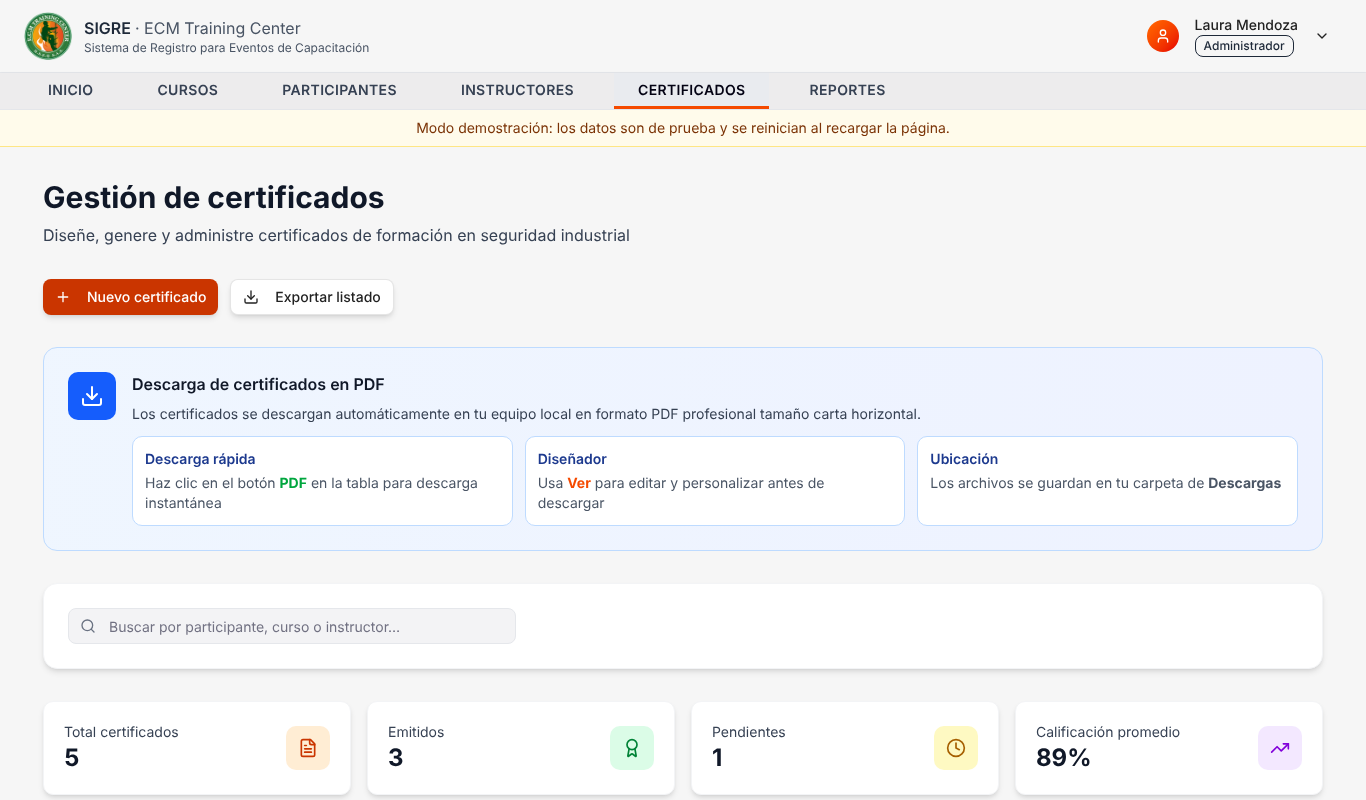
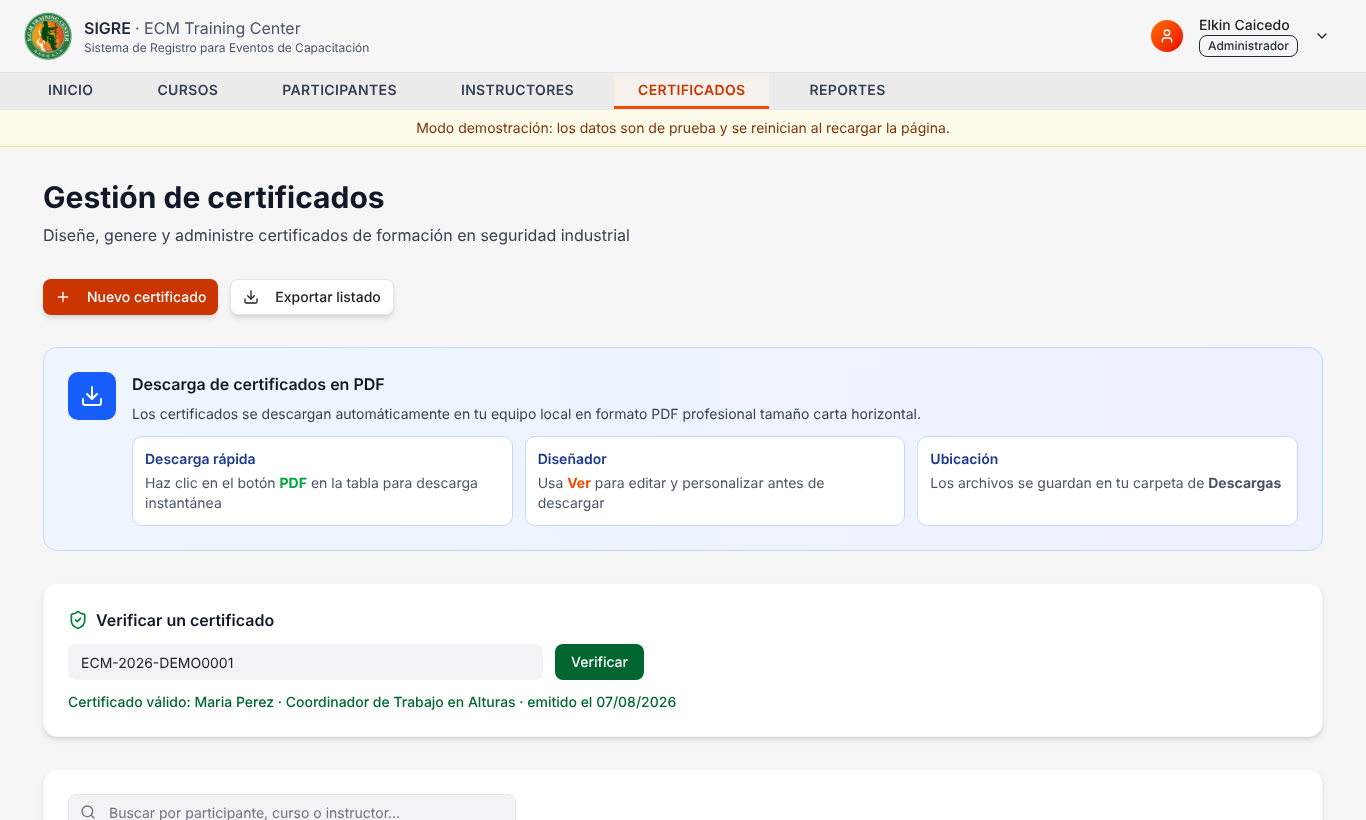
docs: README, CAMBIOS y capturas de la versión 1.4.0

diff --git a/src/app/components/SettingsDialog.tsx b/src/app/components/SettingsDialog.tsx
@@ -637,7 +637,7 @@ export function SettingsDialog({ open, onOpenChange }: SettingsDialogProps) {
           <div className="flex items-start gap-3">
             <Info className="w-5 h-5 text-gray-500 mt-0.5" />
             <div className="flex-1">
-              <p className="font-semibold text-gray-900">Sistema SIGRE v1.3</p>
+              <p className="font-semibold text-gray-900">Sistema SIGRE v1.4</p>
               <p className="text-sm text-gray-600">
                 ECM Training Center • Última actualización: 19 Oct 2026
               </p>

diff --git a/README.md b/README.md
@@ -53,14 +53,23 @@ mvn spring-boot:run -Dspring-boot.run.profiles=dev
 
 ### Usuarios para entrar
 
-Todavía no hay módulo de autenticación: se elige el rol en la pantalla de inicio y se escribe cualquier correo
-y contraseña. Los usuarios son los mismos que crea `CargaDatosDemostracion` en el backend:
+El inicio de sesión valida las credenciales (`services/authService.ts`):
 
-| Rol en pantalla | Rol en backend | Usuario | id_usuario | id_instructor |
-|-----------------|----------------|---------|-----------:|--------------:|
-| Participante | ASISTENTE | Maria Perez | 3 | — |
-| Instructor | INSTRUCTOR | Carlos Ortega | 2 | 1 |
-| Administrador | ADMIN | Elkin Caicedo | 1 | — |
+- **Modo conectado**: envía correo y contraseña a `POST /api/auth/login`; el backend compara la contraseña
+  cifrada con BCrypt y devuelve el rol. Si no coinciden responde 401 y la pantalla muestra
+  "Correo o contraseña incorrectos".
+- **Modo demostración**: valida contra los mismos usuarios que crea `CargaDatosDemostracion` (perfil `dev`).
+  Al elegir una pestaña de rol se carga su correo; cualquier otra credencial se rechaza.
+
+Contraseña de los usuarios de prueba: `Sigre2026`
+
+| Rol | Rol en backend | Usuario | Correo | id_usuario | id_instructor |
+|-----|----------------|---------|--------|-----------:|--------------:|
+| Participante | ASISTENTE | Maria Perez | maria.perez@correo.com | 3 | — |
+| Instructor | INSTRUCTOR | Carlos Ortega | carlos.ortega@ecm.com | 2 | 1 |
+| Administrador | ADMIN | Elkin Caicedo | elkin.caicedo@ecm.com | 1 | — |
+
+El rol de la sesión es el que asigna el sistema, no la pestaña elegida.
 
 ## Comandos
 
@@ -80,6 +89,10 @@ src/app/
   models/curso.ts            Tipos y reglas del dominio (iguales a los DTO del backend)
   services/http.ts           Cliente HTTP: URL base, JSON y errores ProblemDetail
   services/cursosService.ts  Contrato CursosService con dos implementaciones (API real y demostración)
+  services/authService.ts    Inicio de sesión (POST /api/auth/login o usuarios de demostración)
+  services/directorioService.ts  Participantes, instructores y certificados (API o demostración)
+  lib/exportar.ts            Exportación CSV (Excel) y PDF, lectura de CSV para importar
+  lib/reportes.ts            Cálculos del reporte de ocupación de cursos
   mocks/cursos.ts            Datos del modo demostración
   lib/roles.ts               Roles, menú por rol y permisos
   lib/dates.ts               Fechas sin desfase de zona horaria
@@ -95,22 +108,31 @@ a la API real sin tocar la interfaz.
 
 | Método | Ruta | Pantalla |
 |--------|------|----------|
-| GET | `/api/cursos` | Inicio, Cursos |
+| POST | `/api/auth/login` | Inicio de sesión |
+| POST | `/api/auth/registro` | Nuevo participante e importación de participantes (administrador) |
+| GET | `/api/usuarios?rol=ASISTENTE` | Directorio de participantes (administrador) |
+| GET / POST | `/api/instructores` | Directorio y registro de instructores (administrador); opciones de "Nuevo curso" |
+| GET | `/api/cursos` | Inicio, Cursos, Reportes |
 | POST | `/api/cursos` | Nuevo curso (administrador) |
 | POST | `/api/cursos/{id}/inscripciones` | Inscribirme (participante) |
 | GET | `/api/cursos/{id}/inscripciones` | Detalle del curso y Mis participantes (instructor) |
 | GET | `/api/usuarios/{id}/inscripciones` | Mis inscripciones (participante) |
 | PATCH | `/api/inscripciones/{id}/cancelar` | Cancelar inscripción (participante) |
+| GET | `/api/certificados` | Certificados |
+| GET | `/api/certificados/verificar/{codigo}` | Verificar certificado por código |
 
-### Qué está conectado y qué sigue siendo de ejemplo
+### Estado de los módulos (v1.4.0)
 
 | Módulo | Estado |
 |--------|--------|
+| Inicio de sesión | Conectado a `/api/auth/login`; en demostración valida usuarios y contraseña |
 | Cursos e inscripciones | Conectado a la API |
 | Mis participantes (instructor) | Conectado (inscritos de sus cursos) |
-| Inicio de sesión | Simulado: falta el módulo de autenticación (JWT) |
-| Directorio de participantes e instructores | Datos de ejemplo: falta módulo de usuarios |
-| Certificados y reportes | Datos de ejemplo: faltan endpoints |
+| Directorio de participantes | Conectado (listar y registrar); importación real desde CSV |
+| Directorio de instructores | Conectado (listar y registrar) |
+| Certificados | Listado y verificación por código conectados; exportación del listado a CSV |
+| Reportes | Reporte de ocupación con los cursos reales, exportable a PDF y Excel (CSV). Los gráficos históricos siguen siendo de ejemplo hasta que el backend exponga estadísticas por periodo |
+| Sesión con token (JWT) | Pendiente en el backend |
 
 ## Flujo de trabajo con Git
 

diff --git a/CAMBIOS.md b/CAMBIOS.md
@@ -1,5 +1,19 @@
 # Historial de cambios
 
+## v1.4.0 · Correcciones de la evidencia GA7-220501096-AA4-EV03
+
+- **Inicio de sesión real**: nuevo `authService` que valida en `POST /api/auth/login` (modo conectado) o contra
+  los usuarios de demostración con su contraseña (modo demostración). Antes cualquier correo y contraseña
+  entraban. El rol lo asigna el sistema y los errores se muestran en el formulario.
+- **Directorio de participantes conectado**: lista `GET /api/usuarios?rol=ASISTENTE` y registra con
+  `POST /api/auth/registro` (contraseña temporal). La importación ahora lee de verdad el archivo CSV,
+  valida cada fila e informa las rechazadas; la plantilla se descarga.
+- **Directorio de instructores conectado**: `GET` y `POST /api/instructores`; "Nuevo curso" usa la lista real.
+- **Certificados**: listado desde `GET /api/certificados`, verificación por código
+  (`/api/certificados/verificar/{codigo}`) y exportación del listado a CSV.
+- **Reportes**: reporte de ocupación con los cursos del sistema y exportación real a PDF (jsPDF) y Excel (CSV).
+- **Calidad**: TypeScript en modo `strict` sin errores, 42 pruebas unitarias (antes 21).
+
 ## v1.3.0 · Evidencia GA7-220501096-AA4-EV03
 
 - **Comentarios en el código**: cada componente tiene un comentario de documentación (JSDoc) que explica su
